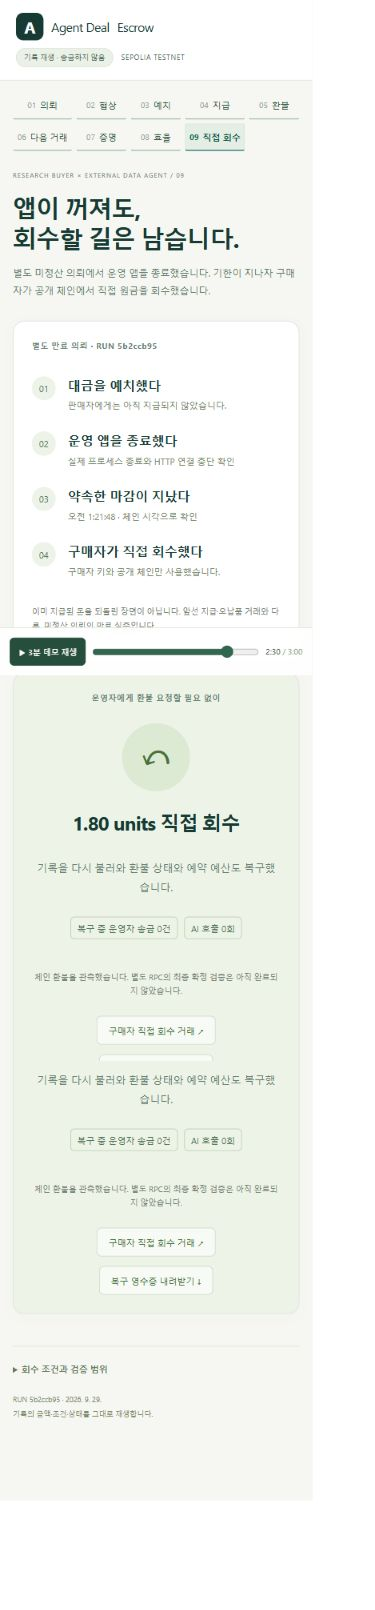
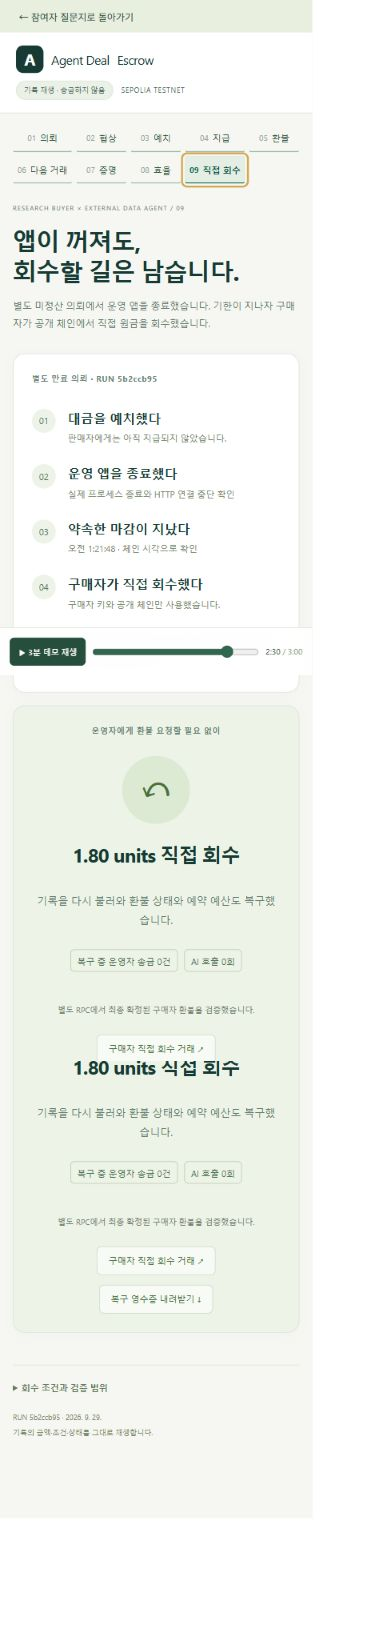
Bind participant feedback to preserved demo evidence and verify buyer finality

diff --git a/web/deal-escrow-public/Study.tsx b/web/deal-escrow-public/Study.tsx
@@ -1,0 +1,25 @@
+import {useEffect,useRef,useState} from 'react';
+import './Study.css';
+type Context={token:string;evidence_version:string;source_run:string;recovery_run:string|null;source_url:string;questions:{id:string;label:string}[];counts:{self_reported_humans:number;automated_qa:number;reviewed_humans:number}};
+const errors:Record<string,string>={STUDY_VERSION_CHANGED:'시청한 데모 버전이 변경되었습니다. 답변을 복사해 보관한 뒤 새로고침하고, 새 데모를 확인해 주세요.',INVALID_STUDY_RESPONSE:'참가 구분, 확인 항목과 모든 답변을 확인해 주세요.',LOCAL_SESSION_REQUIRED:'로컬 연결이 갱신되었습니다. 답변을 보관한 뒤 새로고침해 주세요.',SUBMISSION_ID_REUSED:'이미 저장된 응답과 내용이 다릅니다. 새 응답으로 시작해 주세요.'};
+export function Study(){
+  const [context,setContext]=useState<Context|null>(null),[error,setError]=useState(''),[saving,setSaving]=useState(false),[saved,setSaved]=useState('');
+  const [participant,setParticipant]=useState(''),[kind,setKind]=useState(''),[newcomer,setNewcomer]=useState(false),[practitioner,setPractitioner]=useState(false),[consent,setConsent]=useState(false),[viewed,setViewed]=useState(false),[answers,setAnswers]=useState<Record<string,string>>({});
+  const submission=useRef(crypto.randomUUID()),busy=useRef(false),status=useRef<HTMLDivElement>(null);
+  useEffect(()=>{const controller=new AbortController();fetch('/api/study',{signal:controller.signal}).then(async response=>{if(!response.ok)throw new Error('질문지를 불러오지 못했습니다. 로컬 참여자 서비스가 실행 중인지 확인해 주세요.');setContext(await response.json());}).catch(e=>{if(e.name!=='AbortError')setError(e.message);});return()=>controller.abort();},[]);
+  async function submit(event:React.FormEvent){
+    event.preventDefault();if(!context||busy.current)return;busy.current=true;setSaving(true);setError('');
+    try{
+      const response=await fetch('/api/study',{method:'POST',headers:{'Content-Type':'application/json','X-ADE-Token':context.token},body:JSON.stringify({submission_id:submission.current,evidence_version:context.evidence_version,participant_id:participant,participant_kind:kind,newcomer,practitioner,consent,viewed,answers})});
+      const result=await response.json();if(!response.ok)throw new Error(errors[result.error]??'저장하지 못했습니다. 답변은 유지됩니다. 연결을 확인하고 다시 시도해 주세요.');setSaved(result.response_id);
+    }catch(e){setError(e instanceof Error?e.message:'저장하지 못했습니다.');}finally{setSaving(false);busy.current=false;status.current?.focus();}
+  }
+  return <div className="study-page"><header className="study-header"><a href="/?study=1">A <span>Agent Deal Escrow</span></a><span>로컬 참여자 검증</span></header><main className="study-main">
+    <section className="study-intro"><p className="eyebrow">YOUR FIRST IMPRESSION</p><h1>이해한 그대로,<br/>들려주세요.</h1><p>데모가 전달한 내용과 실제 업무에 필요한 점을 확인합니다. 정답을 맞힐 필요는 없습니다. 모르거나 경험이 없는 항목은 그대로 적어주세요.</p><div className="study-tags"><span>약 5–10분</span><span>익명 코드</span><span>이 PC에만 저장</span></div></section>
+    {!context?<p role="status">{error||'시청할 데모와 질문지를 준비하고 있습니다…'}</p>:<div className="study-layout"><aside className="study-guide"><h2>먼저 데모를 봐주세요.</h2><p>설명 없이 한 번 본 뒤, 본인 말로 답해주세요. 링크는 새 탭에서 열립니다.</p><a className="study-demo-link" href="/?replay=1&studyDemo=1" target="_blank" rel="noreferrer">3분 데모 보기 ↗</a><dl><dt>원문 실행</dt><dd>{context.source_run.slice(0,8)}</dd><dt>직접 회수 실행</dt><dd>{context.recovery_run?.slice(0,8)??'없음'}</dd><dt>시청 버전</dt><dd>{context.evidence_version.slice(0,12)}</dd></dl><p className="study-note">답변은 이 버전의 화면과 증거에 연결됩니다. 응답 수만으로 사용성이나 실수요 검증을 완료하지 않습니다.</p><div className="study-counts"><strong>{context.counts.self_reported_humans}</strong><span>이 버전의 사람 응답<br/>자동 QA {context.counts.automated_qa}건은 별도</span></div></aside>
+    <form className="study-form" onSubmit={submit}><div ref={status} tabIndex={-1} aria-live="polite">{saved?<div className="study-success" role="status"><h2>응답을 저장했습니다.</h2><p>감사합니다. 실제 참여 여부와 답변 내용은 별도로 검토합니다.</p><code>응답 {saved}</code><p>이 페이지를 닫아도 저장한 답변은 이 PC에 남습니다.</p></div>:error?<p className="study-error" role="alert">{error}</p>:null}</div>
+    {!saved?<><fieldset disabled={saving}><legend>01 · 참여 정보</legend><label>익명 참가 코드<input required pattern="[A-Za-z0-9_-]{1,40}" maxLength={40} value={participant} onChange={e=>setParticipant(e.target.value)} placeholder="예: P1" autoComplete="off" aria-describedby="participant-help"/></label><small id="participant-help">영문·숫자·밑줄·하이픈만 사용하세요. 이름이나 연락처는 입력하지 않습니다.</small><label>참가 구분<select required value={kind} onChange={e=>setKind(e.target.value)}><option value="">선택해 주세요</option><option value="human">사람이 직접 응답</option><option value="automated_qa">자동 QA 검사</option></select></label><label className="study-check"><input type="checkbox" checked={newcomer} onChange={e=>setNewcomer(e.target.checked)}/>이 프로젝트를 처음 보는 참여자입니다.</label><label className="study-check"><input type="checkbox" checked={practitioner} onChange={e=>setPractitioner(e.target.checked)}/>리서치·유료 데이터·에이전트 관련 업무 경험이 있습니다.</label><label className="study-check"><input type="checkbox" required checked={viewed} onChange={e=>setViewed(e.target.checked)}/>위 버전의 데모를 확인했습니다.</label></fieldset>
+    <fieldset disabled={saving}><legend>02 · 이해한 내용과 실제 경험</legend>{context.questions.map((question,index)=><label className="study-answer" key={question.id}><span><b>{String(index+1).padStart(2,'0')}</b>{question.label}</span>{question.id==='reference_review'?<small>선택적으로 <a href={context.source_url} target="_blank" rel="noreferrer">공식 보고서 16쪽 ↗</a>을 열어 대조하세요. 검토하지 않았다면 그렇게 적어주세요.</small>:null}<textarea required maxLength={4000} rows={question.id==='recent_incident'?5:3} value={answers[question.id]??''} onChange={e=>setAnswers(previous=>({...previous,[question.id]:e.target.value}))}/></label>)}</fieldset>
+    <fieldset disabled={saving}><legend>03 · 저장 동의</legend><p className="study-note">회사 비밀·개인 연락처·계좌 정보는 적지 마세요. 응답은 프로젝트 개선을 위해 이 PC의 비공개 폴더에 저장됩니다. GitHub로 자동 전송되지 않습니다.</p><label className="study-check"><input type="checkbox" required checked={consent} onChange={e=>setConsent(e.target.checked)}/>위 내용을 확인했고 익명 응답 저장에 동의합니다.</label><button type="submit" className="study-submit">{saving?'저장 중…':'응답 저장하기 →'}</button></fieldset></>:null}</form></div>}
+  </main><footer className="study-footer">Agent Deal Escrow · 원문과 지급 조건을 연결하는 실험</footer></div>;
+}

diff --git a/web/deal-escrow-public/Study.css b/web/deal-escrow-public/Study.css
@@ -1,0 +1,1 @@
+.study-page{min-height:100vh;background:#f5f7f1;color:#203f33;font-family:Inter,"Segoe UI",Arial,sans-serif}.study-header{height:76px;padding:0 6vw;display:flex;align-items:center;justify-content:space-between;background:#fff;border-bottom:1px solid #e1e6dd;font-size:12px}.study-header a{text-decoration:none;font-size:22px;font-weight:700}.study-header a span{font-size:15px;font-weight:500;margin-left:12px}.study-main{max-width:1160px;margin:auto;padding:58px 28px}.study-intro{max-width:650px;margin-bottom:42px}.study-intro h1{font-size:46px;letter-spacing:-1.7px;line-height:1.25;margin:18px 0}.study-intro>p:not(.eyebrow){font-size:15px;color:#5d7469}.study-tags{display:flex;gap:8px;flex-wrap:wrap;font-size:11px}.study-tags span{padding:6px 10px;border:1px solid #d4dfcc;border-radius:4px}.study-layout{display:grid;grid-template-columns:300px 1fr;gap:30px;align-items:start}.study-guide{position:sticky;top:24px;background:#eaf0e1;border:1px solid #d9e3cd;border-radius:12px;padding:26px}.study-guide h2{font-size:20px;margin:0 0 12px}.study-guide p{font-size:13px;color:#5f7659}.study-demo-link{display:block;text-align:center;background:#254e3d;color:white;padding:13px;border-radius:7px;font-size:13px;text-decoration:none;margin:22px 0}.study-guide dl{grid-template-columns:1fr 1fr;gap:13px;font-size:11px;padding:18px 0;border-block:1px solid #d1dec5}.study-guide dd{text-align:right;font-family:monospace}.study-note{font-size:12px;line-height:1.8;color:#607368}.study-counts{display:flex;gap:14px;align-items:center;margin-top:20px}.study-counts strong{font-size:34px;font-weight:500}.study-counts span{font-size:11px;line-height:1.6}.study-form{min-width:0;background:white;border:1px solid #dfe6d7;border-radius:12px;padding:32px}.study-form fieldset{border:0;margin:0 0 32px;padding:0;min-width:0}.study-form legend{font-size:12px;letter-spacing:.4px;font-weight:700;margin-bottom:25px;color:#62814c}.study-form label{display:flex;flex-direction:column;font-size:13px;gap:10px;margin-bottom:17px;line-height:1.6}.study-form input:not([type=checkbox]),.study-form select,.study-form textarea{width:100%;min-width:0;border:1px solid #d4dfd1;border-radius:6px;padding:11px;background:#fcfdf9;color:#203f33}.study-form textarea{resize:vertical;line-height:1.7}.study-form small{display:block;color:#657b67;font-size:11px;line-height:1.7;margin-bottom:20px}.study-form .study-check{flex-direction:row;align-items:flex-start;font-size:12px;gap:10px;margin-top:16px}.study-check input{flex:none;margin-top:4px;accent-color:#254e3d}.study-answer{padding-top:17px}.study-answer>span{display:flex;gap:10px;align-items:baseline}.study-answer b{font-size:10px;color:#7a9166;flex:none}.study-answer small{margin:0 0 0 22px}.study-submit{display:block;width:100%;background:#254e3d;color:#fff;border:0;padding:15px;margin-top:24px}.study-submit:hover{background:#326047}.study-success{background:#edf4e5;border:1px solid #c6dcba;padding:24px;border-radius:8px}.study-success h2{font-size:22px}.study-error{padding:14px;background:#fff2e9;border-left:3px solid #bd724f;color:#875238;font-size:13px}.study-footer{padding:28px;text-align:center;font-size:10px;color:#7d917b;border-top:1px solid #dfe6d7}.study-page :focus-visible{outline:3px solid #94b470;outline-offset:3px}.study-return{display:block;padding:12px 6vw;background:#e8efdf;font-size:12px;text-decoration:none;color:#294b39}@media(max-width:760px){.study-main{padding:35px 18px}.study-intro h1{font-size:36px}.study-layout{grid-template-columns:1fr;gap:20px}.study-guide{position:static}.study-form{padding:23px}.study-header{padding:0 20px}.study-header>span{font-size:10px}.study-intro{margin-bottom:25px}}

diff --git a/web/deal-escrow-public/main.tsx b/web/deal-escrow-public/main.tsx
@@ -2,4 +2,6 @@ import React from 'react';
 import {createRoot} from 'react-dom/client';
 import './base.css';
 import {Replay} from './Replay';
-createRoot(document.getElementById('root')!).render(<React.StrictMode><Replay/></React.StrictMode>);
+import {Study} from './Study';
+const query=new URLSearchParams(location.search);
+createRoot(document.getElementById('root')!).render(<React.StrictMode>{query.has('study')?<Study/>:<>{query.has('studyDemo')?<a className="study-return" href="/?study=1">← 참여자 질문지로 돌아가기</a>:null}<Replay/></>}</React.StrictMode>);

diff --git a/docs/USER-STUDY.ko.md b/docs/USER-STUDY.ko.md
@@ -4,13 +4,20 @@
 
 ## 준비 자료
 
-- 로컬 서비스 첫 화면: `http://127.0.0.1:3412/`
-- 기록된 실행: `http://127.0.0.1:3412/?replay=1` (최신 기록 완성 후 사용)
-- 참여자 질문지: `http://127.0.0.1:3412/?study=1`
+- 참여자 질문지: `http://127.0.0.1:3414/?study=1`
+- 질문지에 고정된 데모: `http://127.0.0.1:3414/?replay=1&studyDemo=1`
+- 일반 기록 재생: `http://127.0.0.1:3413/?replay=1`
 - 원문: https://www.lgensol.com/upload/file/irEvent/25_4Q_LGES_business_performance_F_EN.pdf#page=16
 - 원문 검토 대상: 시설투자 현금유출 2025 Q1 -3,014 / Q2 -2,717 / Q3 -2,171 / Q4 -2,515, 십억 원. 납품은 지출액을 양수로 정규화하고 원 부호도 보존한다.
 
 링크는 실행 중인 PC에서만 열린다. 원격 참가자에게 localhost 링크를 보내지 않는다. 현장 PC 또는 화면 공유로 시청하고 질문지에 직접 답한다. 공개 게시나 사람에게 메시지 발송은 아직 하지 않았다.
+
+```sh
+pnpm ade:replay:build
+pnpm ade:source:study
+```
+
+질문지 서비스는 지갑·Kiln API·체인 DB를 열지 않는다. 서버 시작 시 데모의 증거와 빌드 파일을 고정하고, 그 버전의 원문 실행·별도 회수 실행을 시청 화면과 응답에 연결한다. 질문지에서 데모를 열면 같은 버전이 제공된다. 실행 중 빌드 파일을 바꿔도 화면은 바뀌지 않으며, 새 버전을 제공하려면 서비스를 재시작한다. 질문 항목·증거·화면이 달라지면 이전 응답은 새 버전의 집계에 포함되지 않는다.
 
 ## 초면 참여자 3명
 
@@ -30,9 +37,11 @@
 
 ## 기록과 완료 기준
 
-- 응답은 해당 실행 디렉터리의 `human-study/responses.jsonl`에 저장된다. 개인 연락처를 수집하지 않는다.
+- 응답은 Git에서 제외된 `data/private/deal-escrow/source-study/responses.jsonl`에 저장된다. 개인 연락처를 수집하지 않는다. `ADE_STUDY_DIR`로 별도 저장 위치를 지정할 수 있다.
 - 실제 사람과 자동 QA는 `participant_kind`로 분리한다. 참가 코드별 마지막 응답을 집계한다.
-- 응답에는 시청한 기록 파일의 SHA256이 포함된다. 수정된 데모를 과거 응답으로 검증했다고 주장하지 않는다.
+- 응답에는 시청 버전, 원문·회수 실행 ID, 증거 해시, UI 파일별 해시, 질문 항목이 포함된다. 해당 증거와 실제 UI 바이트도 같은 비공개 폴더의 `sessions/<version>.json`에 보존한다. 수정된 데모를 과거 응답으로 검증했다고 주장하지 않는다.
+- 같은 제출 ID의 재시도는 한 번만 저장한다. 다른 내용으로 ID를 재사용하거나, 버전·동의·시청 확인이 맞지 않으면 저장하지 않는다. 저장 실패 시 입력한 답변을 화면에 유지한다.
+- 응답자가 직접 선택한 `human`은 신원이나 이해도의 증명이 아니다. 현재 자동 집계의 `reviewed_humans`와 `human_validation_complete`는 각각 0과 false로 유지하며, 별도 관찰 기록으로 검토해야 한다.
 - 사람 3명의 실제 응답·이해 관찰, 잠재 사용자의 실제 사건, 원문 표 사람 검토가 있어야 이 단계의 완료를 판단한다. 폼이나 영상 완성만으로 완료가 아니다.
 
 ## 텍스트로 전달할 수 있는 참여 안내 초안

diff --git a/docs/BUYER-RECOVERY-PROOF.ko.md b/docs/BUYER-RECOVERY-PROOF.ko.md
@@ -21,7 +21,7 @@
 
 구매자 도구는 별도 Node 프로세스로 실행했다. 파일 읽기 권한은 공개 자료·프로그램 의존성·구매자 전용 키와 거래 journal로 제한했다. 운영자 키와 앱 DB 경로는 허용하지 않았다. 이는 악성 코드에 대한 범용 보안 샌드박스나 실제 고객의 개인 키 관리 시스템을 검증한 것이 아니다.
 
-앱의 진행 기준은 canonical 2 confirmations다. 별도 Tenderly RPC의 `finalized` 판정은 [독립 검증 파일](../artifacts/deal-escrow/source-recovery/5b2ccb95-10b9-4f62-a51a-73761d51c336/independent-verification.json)을 따른다. 아직 해당 거래가 최종 확정 블록에 들어오지 않은 관측에서는 `INCOMPLETE / CHAIN_FINALITY_PENDING`을 표시하며, UI에서도 완료 배지를 붙이지 않는다.
+앱의 진행 기준은 canonical 2 confirmations다. 별도 Tenderly RPC의 [독립 검증](../artifacts/deal-escrow/source-recovery/5b2ccb95-10b9-4f62-a51a-73761d51c336/independent-verification.json)은 finalized block **11,801,738**에서 **PASS / VALID**를 확인했다. 그 전 관측은 `INCOMPLETE / CHAIN_FINALITY_PENDING`으로 표시했으며, 최종 확정 이전에 완료 배지를 붙이지 않았다.
 
 ## 비용과 지연을 숨기지 않는다
 

diff --git a/README.md b/README.md
@@ -14,6 +14,8 @@ The newer [source-backed public run](docs/SOURCE-PUBLIC-PROOF.ko.md) uses actual
 
 A separate [application-off recovery run](docs/BUYER-RECOVERY-PROOF.ko.md) terminates the real application, waits for the on-chain deadline, and refunds with the buyer key from a process denied access to the controller key and app database. Reopening the record reconciles the refund and releases the reservation without a new controller transaction or model call. Stage 09 replays this distinct run; its independent finalized verdict is displayed separately.
 
+The buyer refund independently verified VALID at finalized block 11,801,738. The [local participant questionnaire](docs/USER-STUDY.ko.md) now binds answers to the exact evidence and rendered demo version, preserves that snapshot privately, and separates automated QA from self-reported human responses. Run `pnpm ade:source:study` after building the replay, then open `http://127.0.0.1:3414/?study=1`. Actual customer and human-review evidence is still required.
+
 ```sh
 pnpm ade:replay:build
 pnpm ade:source:replay
